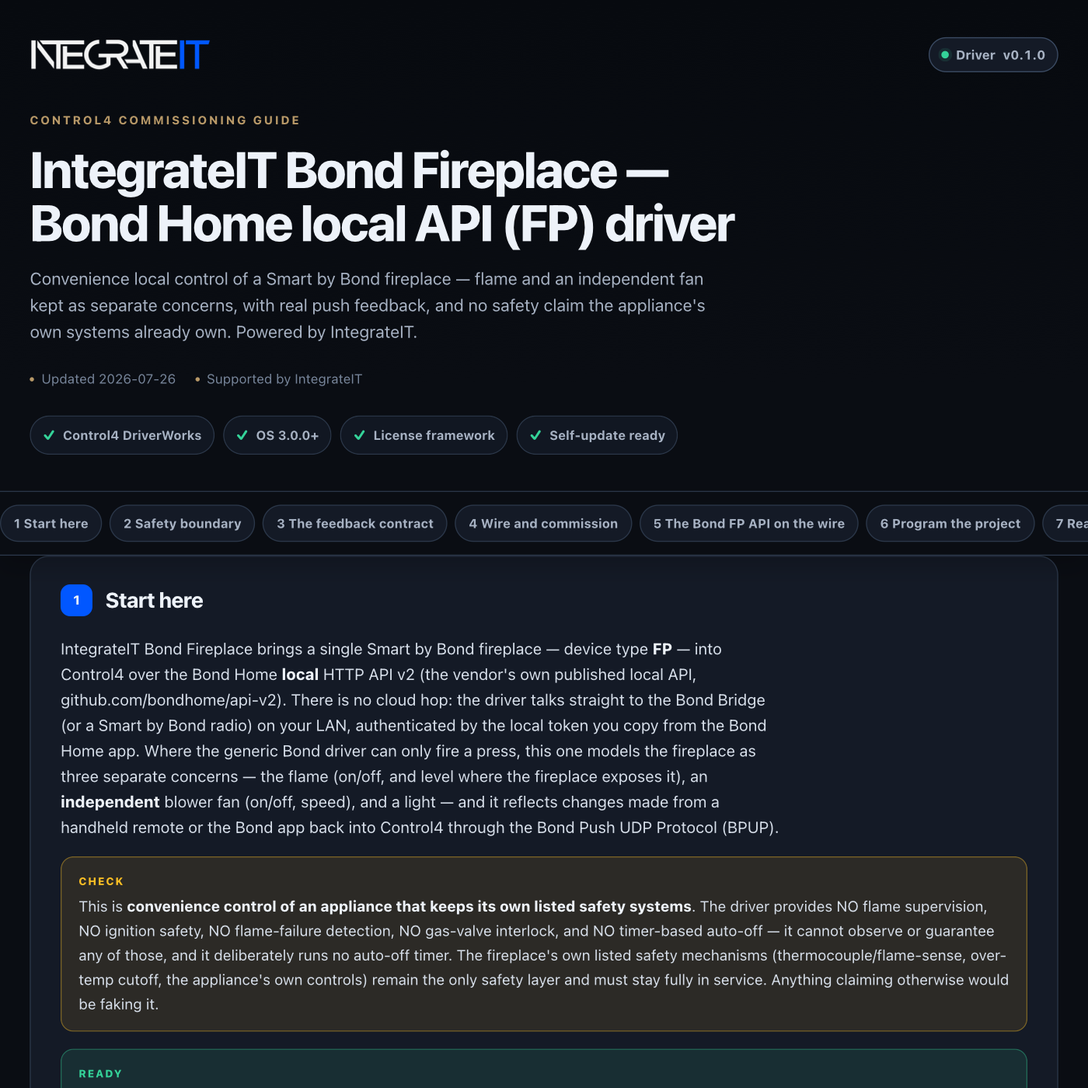
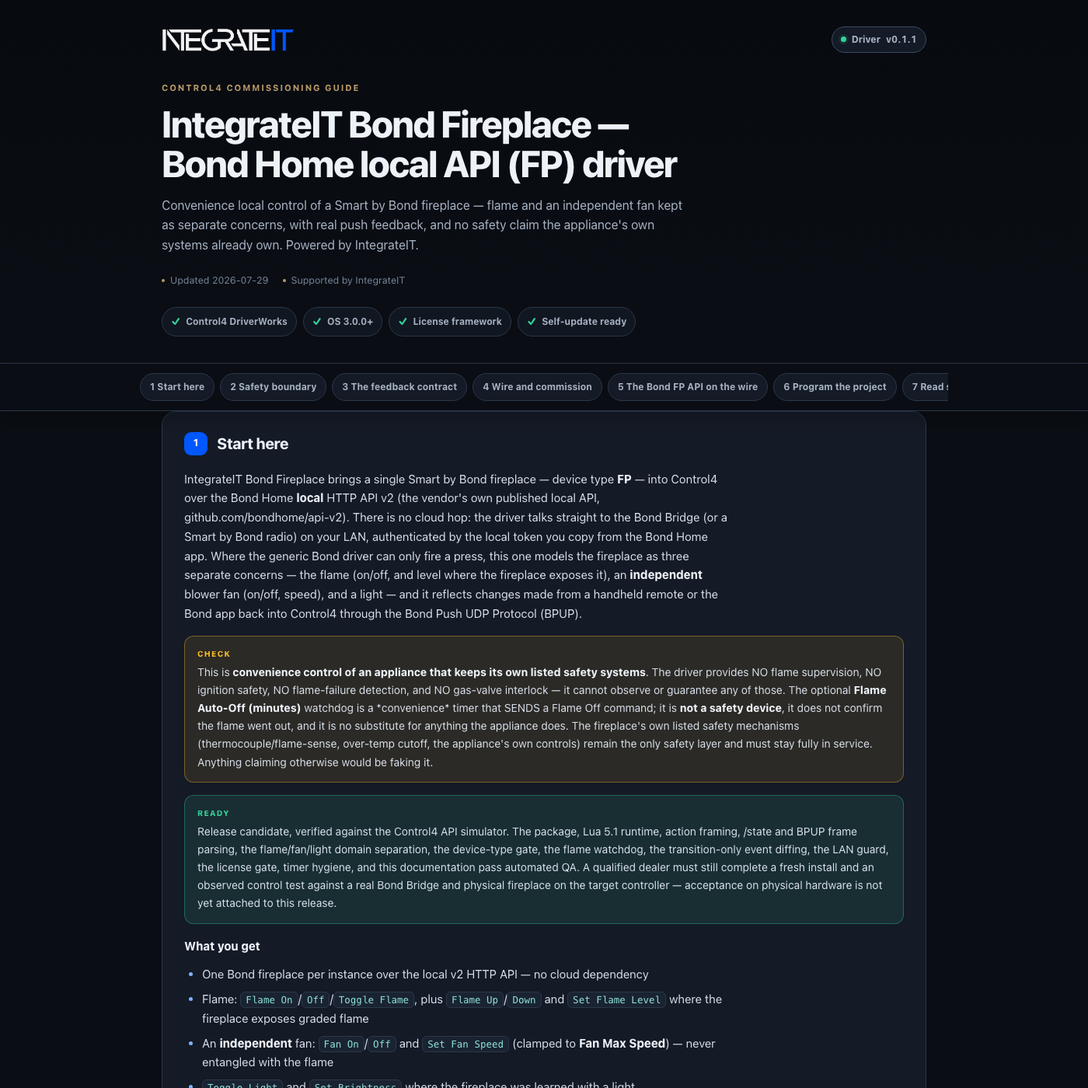
control4: publish driver channel (integrateit_bond_fireplace 0.2.0)

diff --git a/control4/integrateit_bond_fireplace/documentation.html b/control4/integrateit_bond_fireplace/documentation.html
@@ -179,13 +179,13 @@ td code{white-space:normal}
     <div class="wrap">
       <div class="brandbar">
[1 lines of base64/hex data omitted]
-        <span class="version"><span class="word">Driver</span> v0.1.1</span>
+        <span class="version"><span class="word">Driver</span> v0.2.0</span>
       </div>
       <p class="eyebrow">Control4 commissioning guide</p>
       <h1>IntegrateIT Bond Fireplace — Bond Home local API (FP) driver</h1>
       <p class="sub">Convenience local control of a Smart by Bond fireplace — flame and an independent fan kept as separate concerns, with real push feedback, and no safety claim the appliance's own systems already own. Powered by IntegrateIT.</p>
       <div class="meta">
-        <span>Updated 2026-07-29</span>
+        <span>Updated 2026-07-30</span>
         <span>Supported by IntegrateIT</span>
       </div>
       <div class="readiness" aria-label="Driver capabilities">
@@ -198,24 +198,26 @@ td code{white-space:normal}
   </header>
 
   <div class="toc-wrap">
-    <nav class="toc wrap" aria-label="Documentation sections"><a href="#overview">1 Start here</a><a href="#safety">2 Safety boundary</a><a href="#feedback">3 The feedback contract</a><a href="#setup">4 Wire and commission</a><a href="#protocol">5 The Bond FP API on the wire</a><a href="#programming">6 Program the project</a><a href="#status">7 Read status at a glance</a><a href="#troubleshooting">8 Troubleshoot methodically</a><a href="#trust">9 Ownership, privacy, and licensing</a><a href="#reference">R Reference</a><a href="#licensing">L Licensing</a><a href="#updates">U Automatic updates</a><a href="#changelog">V Version history</a></nav>
+    <nav class="toc wrap" aria-label="Documentation sections"><a href="#overview">1 Start here</a><a href="#safety">2 Safety boundary</a><a href="#feedback">3 The feedback contract</a><a href="#setup">4 Wire and commission</a><a href="#protocol">5 The Bond FP API on the wire</a><a href="#programming">6 Program the project</a><a href="#status">7 Read status at a glance</a><a href="#troubleshooting">8 Troubleshoot methodically</a><a href="#trust">9 Ownership, privacy, and licensing</a><a href="#reference">R Reference</a><a href="#licensing">L Licensing</a><a href="#updates">U Automatic updates</a><a href="#diagnostics">D Diagnostics and self-test</a><a href="#changelog">V Version history</a></nav>
   </div>
 
   <main class="wrap">
     <section class="card" id="overview" data-card="overview">
   <h2><span class="n">1</span> Start here</h2>
   <p>IntegrateIT Bond Fireplace brings a single Smart by Bond fireplace — device type <b>FP</b> — into Control4 over the Bond Home <b>local</b> HTTP API v2 (the vendor's own published local API, github.com/bondhome/api-v2). There is no cloud hop: the driver talks straight to the Bond Bridge (or a Smart by Bond radio) on your LAN, authenticated by the local token you copy from the Bond Home app. Where the generic Bond driver can only fire a press, this one models the fireplace as three separate concerns — the flame (on/off, and level where the fireplace exposes it), an <b>independent</b> blower fan (on/off, speed), and a light — and it reflects changes made from a handheld remote or the Bond app back into Control4 through the Bond Push UDP Protocol (BPUP).</p>
-  <div class="note warn">This is <b>convenience control of an appliance that keeps its own listed safety systems</b>. The driver provides NO flame supervision, NO ignition safety, NO flame-failure detection, NO gas-valve interlock, and NO timer-based auto-off — it cannot observe or guarantee any of those, and it deliberately runs no auto-off timer. The fireplace's own listed safety mechanisms (thermocouple/flame-sense, over-temp cutoff, the appliance's own controls) remain the only safety layer and must stay fully in service. Anything claiming otherwise would be faking it.</div>
-  <div class="note good">Release candidate, verified against the Control4 API simulator. The package, Lua 5.1 runtime, action framing, /state and BPUP frame parsing, the flame/fan/light domain separation, the transition-only event diffing, the LAN guard, the license gate, timer hygiene, and this documentation pass automated QA. A qualified dealer must still complete a fresh install and an observed control test against a real Bond Bridge and physical fireplace on the target controller — acceptance on physical hardware is not yet attached to this release.</div>
+  <div class="note warn">This is <b>convenience control of an appliance that keeps its own listed safety systems</b>. The driver provides NO flame supervision, NO ignition safety, NO flame-failure detection, and NO gas-valve interlock — it cannot observe or guarantee any of those. The optional <b>Flame Auto-Off (minutes)</b> watchdog is a *convenience* timer that SENDS a Flame Off command; it is <b>not a safety device</b>, it does not confirm the flame went out, and it is no substitute for anything the appliance does. The fireplace's own listed safety mechanisms (thermocouple/flame-sense, over-temp cutoff, the appliance's own controls) remain the only safety layer and must stay fully in service. Anything claiming otherwise would be faking it.</div>
+  <div class="note good">Release candidate, verified against the Control4 API simulator. The package, Lua 5.1 runtime, action framing, /state and BPUP frame parsing, the flame/fan/light domain separation, the device-type gate, the flame watchdog, the transition-only event diffing, the LAN guard, the license gate, timer hygiene, and this documentation pass automated QA. A qualified dealer must still complete a fresh install and an observed control test against a real Bond Bridge and physical fireplace on the target controller — acceptance on physical hardware is not yet attached to this release.</div>
   <p><b>What you get</b></p>
   <ul>
     <li>One Bond fireplace per instance over the local v2 HTTP API — no cloud dependency</li>
     <li>Flame: <code>Flame On</code>/<code>Off</code>/<code>Toggle Flame</code>, plus <code>Flame Up</code>/<code>Down</code> and <code>Set Flame Level</code> where the fireplace exposes graded flame</li>
     <li>An <b>independent</b> fan: <code>Fan On</code>/<code>Off</code> and <code>Set Fan Speed</code> (clamped to <b>Fan Max Speed</b>) — never entangled with the flame</li>
     <li><code>Toggle Light</code> and <code>Set Brightness</code> where the fireplace was learned with a light</li>
+    <li>An optional <b>Flame Auto-Off (minutes)</b> convenience watchdog (0 = off, the default) that sends Flame Off after the flame has been observed on that long, and fires <code>Watchdog Turned Flame Off</code> when it does</li>
     <li>Real push feedback: the BPUP UDP listener (port 30007) reflects remote/app changes without polling, with hash-gated HTTP polling as the fallback</li>
     <li><code>FLAME_POWER</code>, <code>FLAME_LEVEL</code>, <code>FAN_POWER</code>, <code>FAN_SPEED</code>, <code>LIGHT</code>, and <code>DEVICE_ONLINE</code> variables with transition-only events</li>
     <li>Honest feature detection — an action the fireplace was not learned with is refused, never a silent no-op</li>
+    <li>A non-FP device is refused by name, pointing at the IntegrateIT driver that models it where one exists</li>
   </ul>
 </section>
 
@@ -226,7 +228,17 @@ td code{white-space:normal}
     <li><b>Outbound.</b> Every command is tagged with the one concern it may act on. A fan command (<code>Fan On</code>, <code>Fan Off</code>, <code>Set Fan Speed</code>) issues <b>only</b> an FpFan action and can never emit a flame action; a flame command (<code>Flame On</code>/<code>Off</code>/<code>Toggle</code>, <code>Flame Up</code>/<code>Down</code>, <code>Set Flame Level</code>) issues <b>only</b> a flame action and never touches the fan. A domain guard refuses any action outside the stated concern before it reaches the wire — the separation is enforced, not merely a naming convention.</li>
     <li><b>Inbound.</b> State is applied field by field. A fan-only change (<code>fpfan_power</code>, <code>fpfan_speed</code>) updates only the fan variables and fan events; a flame-only change (<code>power</code>, <code>flame</code>) updates only the flame variables and flame events. A fan change never mutates <code>FLAME_POWER</code>, and a flame change never mutates <code>FAN_POWER</code>.</li>
   </ul>
-  <p>What the driver deliberately does <b>not</b> do: it never infers that turning the fan on should light the flame, never runs a safety timer that turns the flame off, and never reports a flame or fan state it did not observe. It is layered <b>on top of</b> the fireplace's own safety systems, never a replacement for them.</p>
+  <p><b>One device type, and the gate outranks everything.</b> This driver controls Bond fireplaces (<code>FP</code>) and nothing else. The bridge reports each device's type in the record this driver already reads, so once that record has been read, a <b>Device ID</b> pointing at any other type is refused before anything reaches the wire — not warned about, refused. <code>CF</code>, <code>MS</code>, <code>GX</code>, and <code>LT</code> are named along with the IntegrateIT driver that owns them; <code>HT</code>, <code>SW</code>, and <code>BD</code> are named for what they are, with no driver invented for you to go looking for; anything else is refused flatly. This matters more here than on any other driver in the family, because this driver's <code>TurnOn</code> <b>is the flame</b>: pointed at a shade or a generic device it would have been sending an ignition command to something that is not a fireplace. The refusal outranks the feature list, the domain guard, and the watchdog alike. In the seconds after load, before that record has been read, a command is still attempted and the bridge's own answer surfaced: refusing on no evidence would be inventing a verdict. A record that comes back with <b>no</b> <code>type</code> field at all is a different case and is refused, because Bond's own schema marks the field required — and on a gas appliance, commanding a device the driver cannot even classify is the last thing it should do. <b>Device Type</b> shows the verdict; every refusal names it in <b>Status</b>.</p>
+  <p><b>The Flame Auto-Off watchdog, stated exactly.</b> <b>Flame Auto-Off (minutes)</b> is <code>0</code> — off — by default. Set it, and this is precisely what happens and nothing more:</p>
+  <ul>
+    <li>The clock starts on the <b>first observation that the flame is on</b>, from a BPUP push or a poll, and it is <b>not</b> extended by later observations that the flame is still on. One armed instance, one deadline. Observing the flame off cancels it. A rebind or a change to <b>Bond IP Address</b> cancels it.</li>
+    <li>Changing the minute count while armed <b>re-arms from now</b> — the dealer just moved the deadline, and reinterpreting an already-elapsed stretch against a new number would be guesswork. Setting it to <code>0</code> disarms outright. Switching it on over a fireplace the driver already believes is lit arms immediately, rather than waiting for a state change that a stable state hash may never deliver.</li>
+    <li>On expiry the driver <b>sends <code>TurnOff</code></b> through the same single wire chokepoint every other command uses, so the device-type gate, the license gate, the LAN guard, and the flame/fan domain guard all apply to it exactly as they apply to a keypad press. It is not a privileged path. When one of those gates refuses it, <b>Flame Watchdog</b> reads <code>Blocked</code> and the <code>Watchdog Turned Flame Off</code> event does <b>not</b> fire, because an event claiming an auto-off happened when nothing left the controller would be the worst thing this driver could report.</li>
+    <li>A refused auto-off is <b>not retried faster than the window, and not swept under the rug.</b> The watchdog arms on an *observation* that the flame is on, so a refusal leaves <b>Flame Watchdog</b> reading <code>Blocked</code> until the flame is observed on again — and each such observation buys exactly one more attempt, one window later. On a plain on/off fireplace, whose reported state does not change while it burns, there is no further observation, so <code>Blocked</code> is simply where it stays until the flame is next seen off and on. That is deliberate: the gate that refused the write has not gone away, and a timer quietly re-trying against a gate that is still shut would be noise pretending to be protection. Clear the gate named in <b>Status</b> and the next flame-on observation re-arms it.</li>
+    <li><b>A successful <code>PUT</code> is the bridge accepting the action. It is not flame-out confirmation.</b> On an RF fireplace learned into a Bond Bridge there is no return path from the appliance: Bond updates its own tracked belief the moment it accepts a command, so <code>/state</code> reports the flame off whether the appliance obeyed or not. The driver therefore says it *sent* Flame Off — <code>Fired — TurnOff sent … (the bridge accepting it is not flame-out confirmation)</code> — and never that the fire went out. It cannot know that, and nothing in this package will claim it does.</li>
+    <li><b>This is a convenience layer, not a safety device.</b> It is not flame supervision, not flame-failure detection, and not an interlock. It must never be relied on to make a fireplace safe, presented to a customer as a safety feature, or used in place of the appliance's own listed safety systems, which remain the only safety layer and must stay fully in service. If the requirement is "this fireplace must not stay lit unattended," the answer is the appliance's own listed timer or control — not a Control4 driver sending a radio command over an unencrypted LAN protocol with no confirmation path.</li>
+  </ul>
+  <p>What the driver deliberately does <b>not</b> do: it never infers that turning the fan on should light the flame, never claims to supervise the flame, and never reports a flame or fan state it did not observe. It is layered <b>on top of</b> the fireplace's own safety systems, never a replacement for them.</p>
 </section>
 
 <section class="card" id="feedback" data-card="feedback">
@@ -247,9 +259,10 @@ td code{white-space:normal}
   <ol class="steps">
     <li>In the <b>Bond Home app</b>, open the fireplace → Settings → Advanced Settings and note the <b>Local Token</b> and the Bond's <b>IP address</b>. Reserve that IP in your router's DHCP table so it cannot change.</li>
     <li>Add <b>IntegrateIT Bond Fireplace</b> to the fireplace's room. Enter <b>Bond IP Address</b> and <b>Bond Token</b> (password-typed and never logged).</li>
-    <li>Run the <b>List Bond Devices</b> action — it prints every device id, name, and type the Bond exposes. Paste the fireplace's <code>FP</code> id into <b>Device ID</b>.</li>
-    <li>Run <b>Test Connection</b>. On success it prints the device name and type, warns if the device is not <code>FP</code>, and populates <b>Fan Max Speed</b> and <b>Supported Features</b> from the fireplace's properties and actions list.</li>
+    <li>Run the <b>List Bond Devices</b> action. It prints every device id, name, and type on the bridge, marks the <code>FP</code> entries as belonging to this driver, and names the dedicated driver for anything else. Paste an <code>FP</code> id into <b>Device ID</b>.</li>
+    <li>Run <b>Test Connection</b>. On success it prints the device name and type, refuses in plain language if the type is not <code>FP</code>, and populates <b>Device Type</b>, <b>Fan Max Speed</b>, and <b>Supported Features</b> from the fireplace's record and properties.</li>
     <li>Leave <b>State Feedback</b> on <code>Push + Poll fallback</code> unless UDP 30007 is blocked on your network; set <b>Poll Interval (s)</b> for the fallback cadence.</li>
+    <li>Leave <b>Flame Auto-Off (minutes)</b> at <code>0</code> unless the customer asked for a convenience auto-off and understands, in the words above, that it is not a safety device. If you set it, read the Safety boundary section to the customer before you leave.</li>
     <li>In Programming, wire the flame, fan, and light commands to keypads and scenes, and optionally react to the events or read the variables.</li>
     <li>Optionally enter a <b>License Key</b> (see Ownership, privacy, and licensing) — the driver runs in Lenient mode without one.</li>
     <li>Prove it: turn the flame on from its handheld remote and watch <b>Feedback Mode</b> read <code>Push (BPUP)</code>, <code>FLAME_POWER</code> update, and <b>Flame On</b> fire — with no polling delay — while the fan variables stay untouched.</li>
@@ -268,6 +281,7 @@ td code{white-space:normal}
     <tr><td>Set Fan Speed</td><td>fan</td><td><code>SetFpFan</code></td><td><code>{"argument":N}</code></td></tr>
     <tr><td>Toggle Light</td><td>light</td><td><code>ToggleLight</code></td><td><code>{}</code></td></tr>
     <tr><td>Set Brightness</td><td>light</td><td><code>SetBrightness</code></td><td><code>{"argument":N}</code> (1-100)</td></tr>
+    <tr><td>*Flame Auto-Off watchdog*</td><td>flame</td><td><code>TurnOff</code></td><td><code>{}</code></td></tr>
   </table>
   <ul>
     <li><b>Set Fan Speed</b> sends the <b>Fan Speed</b> property, clamped to the fireplace's reported maximum (<b>Fan Max Speed</b>, learned from <code>GET …/properties</code>).</li>
@@ -287,6 +301,7 @@ td code{white-space:normal}
     <tr><td><code>Fan Speed Changed</code></td><td>The fan speed changed</td></tr>
     <tr><td><code>Light On</code> / <code>Light Off</code></td><td>The fireplace light changed</td></tr>
     <tr><td><code>Went Online</code> / <code>Went Offline</code></td><td>The fireplace became reachable / stopped responding</td></tr>
+    <tr><td><code>Watchdog Turned Flame Off</code></td><td>The Flame Auto-Off window elapsed and the driver's <code>TurnOff</code> was dispatched. It fires on the <b>send</b>, never on a confirmed flame-out</td></tr>
   </table>
   <table>
     <tr><th>Variable</th><th>Type</th><th>Meaning</th></tr>
@@ -301,8 +316,9 @@ td code{white-space:normal}
     <li><b>Scene the flame, leave the fan alone:</b> call <b>Flame On</b> from a "Movie Night" scene — it never spins the blower. Add <b>Fan On</b> to the same scene only if you want the fan, and it runs as its own concern.</li>
     <li><b>React to a physical remote instantly:</b> because push is live, lighting the fireplace from its handheld fires <b>Flame On</b> within the push latency, not the poll interval — use it to dim the room lights.</li>
     <li><b>Watch reachability:</b> program <b>Went Offline</b> to push a notification; <b>Went Online</b> (or <code>DEVICE_ONLINE</code> as a condition) clears it.</li>
+    <li><b>Tell someone the watchdog acted:</b> program <code>Watchdog Turned Flame Off</code> to send a push notification or announce on a touchscreen. Word it as what it is — "auto-off sent to the fireplace" — because the event means the command was dispatched, not that the fire is out.</li>
   </ul>
-  <p>Control is gated by the license, re-checked at the wire-write moment: under <b>Strict</b> enforcement an unlicensed controller sends no flame, fan, or light action. Push and poll feedback stay live regardless. The default <b>Lenient</b> mode allows commissioning while <b>License Status</b> carries the nag.</p>
+  <p>Control is gated by the license, re-checked at the wire-write moment: under <b>Strict</b> enforcement an unlicensed controller sends no flame, fan, or light action — and no watchdog auto-off either. Push and poll feedback stay live regardless. The default <b>Lenient</b> mode allows commissioning while <b>License Status</b> carries the nag.</p>
 </section>
 
 <section class="card" id="status" data-card="status">
@@ -311,11 +327,13 @@ td code{white-space:normal}
     <tr><th>Property</th><th>Healthy result</th><th>What to do otherwise</th></tr>
     <tr><td><code>Device Status</code></td><td><code>Online (push) — flame on (lvl 30), fan off, light off</code></td><td><code>Offline (no response)</code> = check IP/power; <code>Blocked: …</code> = see the LAN guard; <code>No … set</code> = fill the property</td></tr>
     <tr><td><code>Feedback Mode</code></td><td><code>Push (BPUP)</code></td><td><code>Polling (BPUP silent)</code> = the bridge stopped pushing; <code>Polling (push disabled)</code> = State Feedback is Poll only</td></tr>
-    <tr><td><code>Status</code></td><td>The last command label (e.g. <code>Flame level 40</code>)</td><td><code>Bond error (HTTP N) on …</code> = the fireplace rejected that action; <code>… not supported by this fireplace</code> = feature refusal; <code>Blocked: …</code> = LAN guard</td></tr>
+    <tr><td><code>Status</code></td><td>The last command label (e.g. <code>Flame level 40</code>)</td><td><code>… refused: …</code> = a local gate stopped it and says why; <code>Bond error (HTTP N) on …</code> = the fireplace rejected that action; <code>… not supported by this fireplace</code> = feature refusal; <code>Blocked: …</code> = LAN guard</td></tr>
+    <tr><td><code>Device Type</code></td><td><code>FP (fireplace) — controlled by this driver</code></td><td>A <code>CF</code> / <code>MS</code> / <code>GX</code> / <code>LT</code> names the driver that owns it; <code>HT</code> / <code>SW</code> / <code>BD</code> are named for what they are with no driver invented; <code>missing from the device record</code> means the bridge returned a record with no <code>type</code> at all. Control stays refused until <b>Device ID</b> points at an FP device</td></tr>
     <tr><td><code>Fan Max Speed</code></td><td>The fan's reported maximum</td><td><code>Unknown</code> until the first reachable read runs <code>…/properties</code></td></tr>
     <tr><td><code>Supported Features</code></td><td>e.g. <code>flame, flame level, fan, fan speed, light</code></td><td><code>Unknown</code> until <b>Test Connection</b> or the first poll reads the actions</td></tr>
+    <tr><td><code>Flame Watchdog</code></td><td><code>Disabled (0 minutes)</code> when off; <code>Armed — N minutes after the flame was first observed on</code> when running</td><td><code>Idle</code> = enabled but the flame has not been observed on; <code>Fired — TurnOff sent …</code> = the window elapsed and the command was dispatched (not a confirmed flame-out); <code>Blocked</code> = a gate refused the auto-off write, see <b>Status</b></td></tr>
   </table>
-  <p><b>Print Configuration</b> writes the IP, device id, poll interval, push state, learned max speed and features, and the convenience-only safety note to the Lua output window. It reports the token *length* only — never the token itself, and never the license key.</p>
+  <p><b>Print Configuration</b> writes the IP, device id, learned type, poll interval, push state, learned max speed and features, the watchdog state, and the convenience-only safety note to the Lua output window. It reports the token *length* only — never the token itself, and never the license key.</p>
 </section>
 
 <section class="card" id="troubleshooting" data-card="troubleshooting">
@@ -325,8 +343,15 @@ td code{white-space:normal}
     <tr><td>Nothing responds; <code>Device Status</code> reads <code>No Bond IP set</code> / <code>No Device ID set</code></td><td>IP or Device ID left blank</td><td>Fill <b>Bond IP Address</b> and <b>Device ID</b>; run <b>Test Connection</b></td></tr>
     <tr><td><code>Status</code>: "Bond connection failed (HTTP 401)"</td><td>Wrong <b>Bond Token</b></td><td>Re-copy the Local Token from the Bond Home app (Advanced Settings)</td></tr>
     <tr><td><code>Status</code>: "Bond connection failed (HTTP 404)"</td><td>Wrong <b>Device ID</b></td><td>Run <b>List Bond Devices</b> and paste the correct <code>FP</code> id</td></tr>
+    <tr><td>Every command refused, naming another driver</td><td><b>Device ID</b> points at a CF / MS / GX / LT device</td><td>Point it at an <code>FP</code> device, or install the named IntegrateIT driver for that device</td></tr>
+    <tr><td>Every command refused, "no IntegrateIT driver models this type yet"</td><td><b>Device ID</b> points at a Bond heater, smart switch, or bidet</td><td>Point it at an <code>FP</code> device; those types have no IntegrateIT driver, and none is invented for you</td></tr>
+    <tr><td>Every command refused: "the device record carries no type field"</td><td>The bridge returned a device record with no <code>type</code>. Bond's own schema marks it required, so the record is malformed</td><td>Re-learn the device in the Bond Home app, or update the bridge firmware. The driver refuses rather than command a gas appliance it cannot classify</td></tr>
     <tr><td><code>Feedback Mode</code> stuck on <code>Polling (BPUP silent)</code></td><td>UDP 30007 blocked, or the bridge is not pushing</td><td>Confirm the bridge firmware supports BPUP and UDP 30007 is open on the segment; otherwise set <b>State Feedback</b> to <code>Poll only</code></td></tr>
     <tr><td>A flame/fan/light command sets Status to "not supported by this fireplace"</td><td>The fireplace was learned without that action</td><td>Re-learn it in the Bond app with the fuller remote profile, or use only the supported commands</td></tr>
+    <tr><td><code>Flame Watchdog</code> reads <code>Blocked</code></td><td>A gate refused the auto-off write — Strict + unlicensed, the LAN guard, or a wrong <b>Device Type</b></td><td>Read <b>Status</b>: it names which gate and why. The watchdog is not a privileged path and never bypasses one. It stays on <code>Blocked</code> rather than re-trying against a gate that is still shut; fix what <b>Status</b> names and the next flame-on observation re-arms it</td></tr>
+    <tr><td><code>Flame Watchdog</code> stays <code>Idle</code> while the fire is lit</td><td>The flame has not been *observed* on — push is silent and polling has not read <code>power:1</code> yet</td><td>Check <b>Feedback Mode</b> and <b>Device Status</b>. The watchdog arms on an observation, never on an assumption that a command worked</td></tr>
+    <tr><td>The watchdog fired but the fireplace is still lit</td><td>The bridge accepted <code>TurnOff</code> and updated its own belief; the RF command did not reach the appliance</td><td>Expected and undetectable — see the Safety boundary. The watchdog is a convenience layer, not a safety device; use the appliance's own listed timer if the fire must not stay lit unattended</td></tr>
+    <tr><td>The watchdog turned the fire off while the room was occupied</td><td><b>Flame Auto-Off (minutes)</b> is set and the window elapsed</td><td>Set it to <code>0</code> to disable, or lengthen it. <code>Watchdog Turned Flame Off</code> fires whenever it acts — program it to notify so this is never a surprise</td></tr>
     <tr><td><code>Device Status</code> reads <code>Blocked: …</code></td><td>Bond address is not a LAN address</td><td>Use the Bond's private LAN IPv4, or set <b>Allow WAN Bond</b> to <code>Yes</code> if you truly mean to route to it</td></tr>
     <tr><td>Commands do nothing, no error</td><td>Strict enforcement + unlicensed</td><td>Check <b>License Status</b>; Lenient mode keeps control enabled without a key</td></tr>
     <tr><td><code>Device Status</code> stuck <code>Offline</code></td><td>Bond rebooted onto a new IP, or off the network</td><td>Reserve the IP in DHCP; update <b>Bond IP Address</b>; confirm the Bond is powered</td></tr>
@@ -341,7 +366,7 @@ td code{white-space:normal}
   <p>Lenient mode allows commissioning without an activated key and keeps <b>License Status</b> visible. Strict mode blocks all fireplace control until the Ops Portal has minted and validated a key for that controller; push and poll feedback continue either way. Installing this package does not itself mint or activate a controller license. The shared IntegrateIT license and update services use the controller identity, driver slug, version, configured license key, and update channel as documented in the reference below.</p>
 <section class="card" id="reference" data-card="reference">
   <h2><span class="n">R</span> Reference</h2>
-  <p>Generated from the driver manifest at build time — always matches this build (v0.1.1).</p>
+  <p>Generated from the driver manifest at build time — always matches this build (v0.2.0).</p>
   <h3>Properties</h3>
   <table>
     <tr><th>Property</th><th>Type</th><th>Default</th><th>Description</th></tr>
@@ -351,13 +376,16 @@ td code{white-space:normal}
     <tr><td><code>Flame Level</code></td><td>INTEGER 1–100</td><td><code>50</code></td><td>Level sent by the Set Flame Level command (SetFlame). Offered only on a fireplace learned with graded flame; clamped 1-100. Off is Flame Off, not level 0.</td></tr>
     <tr><td><code>Fan Speed</code></td><td>INTEGER 1–10</td><td><code>3</code></td><td>Speed sent by the Set Fan Speed command (SetFpFan). Clamped to the device's reported maximum speed when known. This is the fireplace's own blower/fan — entirely separate from the flame.</td></tr>
     <tr><td><code>Brightness</code></td><td>INTEGER 1–100</td><td><code>50</code></td><td>Percent sent by the Set Brightness command (1-100). Off is Toggle Light, not brightness 0.</td></tr>
+    <tr><td><code>Flame Auto-Off (minutes)</code></td><td>INTEGER 0–720</td><td><code>0</code></td><td>Optional convenience watchdog, disabled at 0 (the default). When set, the driver sends Flame Off this many minutes after it first observes the flame on. It SENDS TurnOff and fires Watchdog Turned Flame Off; the bridge accepting that action is not flame-out confirmation. This is NOT a safety device and is no substitute for the fireplace's own safety systems.</td></tr>
     <tr><td><code>Poll Interval (s)</code></td><td>INTEGER 1–600</td><td><code>5</code></td><td>How often the driver polls /state when push feedback is silent or disabled.</td></tr>
     <tr><td><code>State Feedback</code></td><td>LIST</td><td><code>Push + Poll fallback</code></td><td>Push + Poll fallback runs the BPUP UDP listener and only polls when push goes silent. Poll only disables BPUP and uses hash-gated HTTP polling. One of: Push + Poll fallback · Poll only</td></tr>
     <tr><td><code>Allow WAN Bond</code></td><td>LIST</td><td><code>No</code></td><td>Safety gate. When No, the driver only talks to a private LAN / link-local Bond address. Set Yes only if you intentionally target a routed host. One of: No · Yes</td></tr>
     <tr><td><code>Device Status</code> <span class="pill blue">read-only</span></td><td>STRING</td><td><code>Unknown</code></td><td>Live reachability and the last observed fireplace state (flame, fan, and light shown separately).</td></tr>
     <tr><td><code>Feedback Mode</code> <span class="pill blue">read-only</span></td><td>STRING</td><td><code>Unknown</code></td><td>Which feedback path is live right now: Push (BPUP) or Polling (with the reason it fell back).</td></tr>
+    <tr><td><code>Device Type</code> <span class="pill blue">read-only</span></td><td>STRING</td><td><code>Unknown</code></td><td>The Bond device type read from the device record. FP is the only type this driver controls; any other type is refused and this property names the IntegrateIT driver that owns it.</td></tr>
     <tr><td><code>Fan Max Speed</code> <span class="pill blue">read-only</span></td><td>STRING</td><td><code>Unknown</code></td><td>Maximum FpFan speed reported by the Bond device properties.</td></tr>
     <tr><td><code>Supported Features</code> <span class="pill blue">read-only</span></td><td>STRING</td><td><code>Unknown</code></td><td>The features the fireplace was actually learned with (flame level / fan / fan speed / light), from its Bond actions list.</td></tr>
+    <tr><td><code>Flame Watchdog</code> <span class="pill blue">read-only</span></td><td>STRING</td><td><code>Disabled (0 minutes)</code></td><td>State of the optional Flame Auto-Off watchdog: Disabled, Idle, Armed, Fired (TurnOff sent), or Blocked (a gate refused the write). Armed means a timer is running, not that the flame is supervised.</td></tr>
   </table>
   <p><b>Standard IntegrateIT properties</b> — licensing, self-update, and diagnostics, auto-injected into every IntegrateIT driver:</p>
   <table>
@@ -400,6 +428,8 @@ td code{white-space:normal}
     <tr><td>Activate License Now <span class="pill blue">shared</span></td><td><code>ACTIVATE_LICENSE</code></td></tr>
     <tr><td>Check for Update Now <span class="pill blue">shared</span></td><td><code>CHECK_UPDATE</code></td></tr>
     <tr><td>Download &amp; Stage Update <span class="pill blue">shared</span></td><td><code>DOWNLOAD_UPDATE</code></td></tr>
+    <tr><td>Run Diagnostics <span class="pill blue">shared</span></td><td><code>RUN_DIAGNOSTICS</code></td></tr>
+    <tr><td>Run Self-Test <span class="pill blue">shared</span></td><td><code>RUN_SELF_TEST</code></td></tr>
   </table>
   <h3>Events</h3>
   <table>
@@ -414,6 +444,7 @@ td code{white-space:normal}
     <tr><td>19</td><td>Light Off</td><td>The fireplace light changed to off.</td></tr>
     <tr><td>20</td><td>Went Online</td><td>The Bond fireplace became reachable.</td></tr>
     <tr><td>21</td><td>Went Offline</td><td>The Bond fireplace stopped responding.</td></tr>
+    <tr><td>22</td><td>Watchdog Turned Flame Off</td><td>The Flame Auto-Off watchdog reached its window and its TurnOff was dispatched to the bridge. It fires on the send, not on a confirmed flame-out — the bridge accepting the action is not confirmation the fire went out.</td></tr>
     <tr><td>1001</td><td>Update Available <span class="pill blue">shared</span></td><td>A newer driver version is available from IntegrateIT</td></tr>
     <tr><td>1002</td><td>License Problem <span class="pill blue">shared</span></td><td>License key invalid, revoked, or bound to a different controller</td></tr>
   </table>
@@ -463,10 +494,29 @@ td code{white-space:normal}
   moment a new build ships.</div>
 </section>
 
+<section class="card" id="diagnostics" data-card="diagnostics">
+  <h2><span class="n">D</span> Diagnostics and self-test</h2>
+  <p>Every IntegrateIT driver carries two read-only Actions for the field. <b>Run Diagnostics</b> prints
+  a report of what the driver has <i>already observed</i> — version and Lua runtime, license mode and
+  cached activation, update channel and any staged build, every armed timer with its interval, which
+  dealer-supplied properties are still empty, and the last few <code>Status</code> messages. It probes
+  nothing, sends nothing, and changes nothing, so it is safe on a live job.
+  <b>Run Self-Test</b> checks the shared layer itself — string and URL encoding, version comparison,
+  the non-finite number guard, the timer registry, and the persistence store — and ends with
+  <code>SELF-TEST PASS</code> or a per-check failure. It stays local: no network, no device commands.</p>
+  <div class="note">Neither Action is license gated, on purpose: you reach for them when a site is
+  broken, and the license may be the broken thing. Values are never printed — a key or secret is
+  reported only as <span class="pill blue">set</span> or <span class="pill amber">NOT SET</span>, so the
+  output is safe to paste into a support ticket. Both print to the Lua output window
+  (Composer &rarr; the driver's <b>Lua</b> tab).</div>
+</section>
+
     <section class="card" id="changelog" data-card="changelog">
   <h2><span class="n">V</span> Version history</h2>
   <div class="chg">
-    <div class="rel"><b>v0.1.1</b> <span class="pill green">current</span><span class="d">2026-07-29</span>
+    <div class="rel"><b>v0.2.0</b> <span class="pill green">current</span><span class="d">2026-07-30</span>
+      <ul><li>New optional Flame Auto-Off (minutes) watchdog, 0 = off by default: after the flame has been observed on for N minutes the driver sends Flame Off through every gate a keypad press passes (license, LAN, type, domain) and fires Watchdog Turned Flame Off only on a dispatched send. It is a convenience layer and NOT a safety device - a successful PUT is the bridge accepting the action, never confirmation the fire went out, and it is no substitute for the appliance's own listed safety systems.</li><li>One armed instance per lit period: the clock starts at the first flame-on observation and is never extended by later ones; flame-off, a rebind, or an IP change cancels it; a Blocked expiry never retries on a stable state hash and re-arms at most once per window when state moves.</li><li>Hard FP type gate at the wire chokepoint: pointing this driver at a Bond shade was sending TurnOn - the flame command - to a window covering. Now refused by name, naming the owning driver, before anything reaches the wire, including the watchdog's own auto-off. A record with no type field is refused rather than guessed at.</li><li>Adds the fleet-standard Run Diagnostics and Run Self-Test dealer actions: read-only, license-independent, cached-state honesty. Diagnostics reports what the driver has already observed - never probing the network, never printing a secret. Self-Test proves the shared layer locally and ends PASS or FAIL.</li></ul></div>
+    <div class="rel"><b>v0.1.1</b><span class="d">2026-07-29</span>
       <ul><li>A corrupted Flame Level can no longer put a malformed body on the wire. Values like nan or inf slipped past the range clamp and were transmitted literally as {"argument":nan} - not acceptable at any probability on an appliance that burns gas.</li><li>Same fix for Fan Speed and Brightness; a corrupted numeric property now falls back to that property's documented default rather than reaching the bridge.</li><li>A corrupted Poll Interval (s) can no longer stall state feedback - published flame and fan state kept looking live while silently frozen.</li><li>The transmit chokepoint now refuses a non-finite argument outright, alongside the existing flame/fan/light domain guard - both are invariants of that chokepoint, not of its callers.</li></ul></div>
     <div class="rel"><b>v0.1.0</b><span class="d">2026-07-26</span>
       <ul><li>Initial release candidate: dedicated single-fireplace control of a Smart by Bond fireplace (device type FP) over the Bond Home local API v2 (github.com/bondhome/api-v2).</li><li>Flame concern: Flame On/Off/Toggle (TurnOn/TurnOff/TogglePower) always available; Flame Up/Down and Set Flame Level (IncreaseFlame/DecreaseFlame/SetFlame, 1-100) offered only where the fireplace was learned with graded flame.</li><li>Independent FpFan concern: Fan On/Off (TurnFpFanOn/TurnFpFanOff) and Set Fan Speed (SetFpFan, clamped 1..max_speed). The safety separation is enforced in code — a fan command issues only FpFan actions and never a flame action, and a flame command never touches the fan; inbound state is applied field-by-field so a fan change never mutates flame variables and vice versa.</li><li>Light concern where flagged: Toggle Light (ToggleLight) and Set Brightness (SetBrightness, 1-100).</li><li>Convenience-only honesty register: the driver provides NO flame supervision, ignition safety, flame-failure detection, gas-valve interlock, or timer-based auto-off, and runs no auto-off timer; the fireplace's own listed safety systems remain the only safety layer. Stated plainly in the packaged docs and the catalog limitations.</li><li>Real push state feedback via the Bond Push UDP Protocol (BPUP) listener on UDP port 30007: keep-alive subscription, \n-delimited JSON frame parsing tolerant of arbitrary datagram boundaries and junk, and resubscribe before the 125s bridge drop.</li><li>Automatic fallback to hash-gated HTTP polling of /state when BPUP goes silent; the Feedback Mode property reports which path is live (Push (BPUP) vs Polling, with the fall-back reason). A 429 Retry-After backs polling off for the requested window with no retry storm.</li><li>Learns FpFan max_speed from /properties and supported features from the device's Bond actions list; an action the fireplace was not learned with is refused as "not supported by this fireplace", while an unknown-support action is attempted so the bridge's own error surfaces (unknown-to-known baseline fires no events).</li><li>Publishes FLAME_POWER, FLAME_LEVEL, FAN_POWER, FAN_SPEED, LIGHT, and DEVICE_ONLINE with transition-only events (unknown-&gt;known baseline adoption is silent).</li><li>BOND-Token header auth (user-supplied, never logged, not even in Debug), LAN-only destination guard at the single transport chokepoint with an Allow WAN Bond override, and MAC-locked IntegrateIT licensing re-checked at wire-write time on every control path.</li><li>Known limits: one fireplace per instance; fireplaces (FP) only; no thermostat/setpoint/aux-heat modeling; BPUP needs UDP 30007 reachable or the driver runs poll-only; acceptance on physical hardware is not yet attached to this release.</li></ul></div>

diff --git a/control4/integrateit_bond_fireplace/CHANGELOG.md b/control4/integrateit_bond_fireplace/CHANGELOG.md
@@ -1,5 +1,11 @@
 # Changelog — IntegrateIT Bond Fireplace
 
+## [0.2.0] - 2026-07-30
+- New optional Flame Auto-Off (minutes) watchdog, 0 = off by default: after the flame has been observed on for N minutes the driver sends Flame Off through every gate a keypad press passes (license, LAN, type, domain) and fires Watchdog Turned Flame Off only on a dispatched send. It is a convenience layer and NOT a safety device - a successful PUT is the bridge accepting the action, never confirmation the fire went out, and it is no substitute for the appliance's own listed safety systems.
+- One armed instance per lit period: the clock starts at the first flame-on observation and is never extended by later ones; flame-off, a rebind, or an IP change cancels it; a Blocked expiry never retries on a stable state hash and re-arms at most once per window when state moves.
+- Hard FP type gate at the wire chokepoint: pointing this driver at a Bond shade was sending TurnOn - the flame command - to a window covering. Now refused by name, naming the owning driver, before anything reaches the wire, including the watchdog's own auto-off. A record with no type field is refused rather than guessed at.
+- Adds the fleet-standard Run Diagnostics and Run Self-Test dealer actions: read-only, license-independent, cached-state honesty. Diagnostics reports what the driver has already observed - never probing the network, never printing a secret. Self-Test proves the shared layer locally and ends PASS or FAIL.
+
 ## [0.1.1] - 2026-07-29
 - A corrupted Flame Level can no longer put a malformed body on the wire. Values like nan or inf slipped past the range clamp and were transmitted literally as {"argument":nan} - not acceptable at any probability on an appliance that burns gas.
 - Same fix for Fan Speed and Brightness; a corrupted numeric property now falls back to that property's documented default rather than reaching the bridge.
